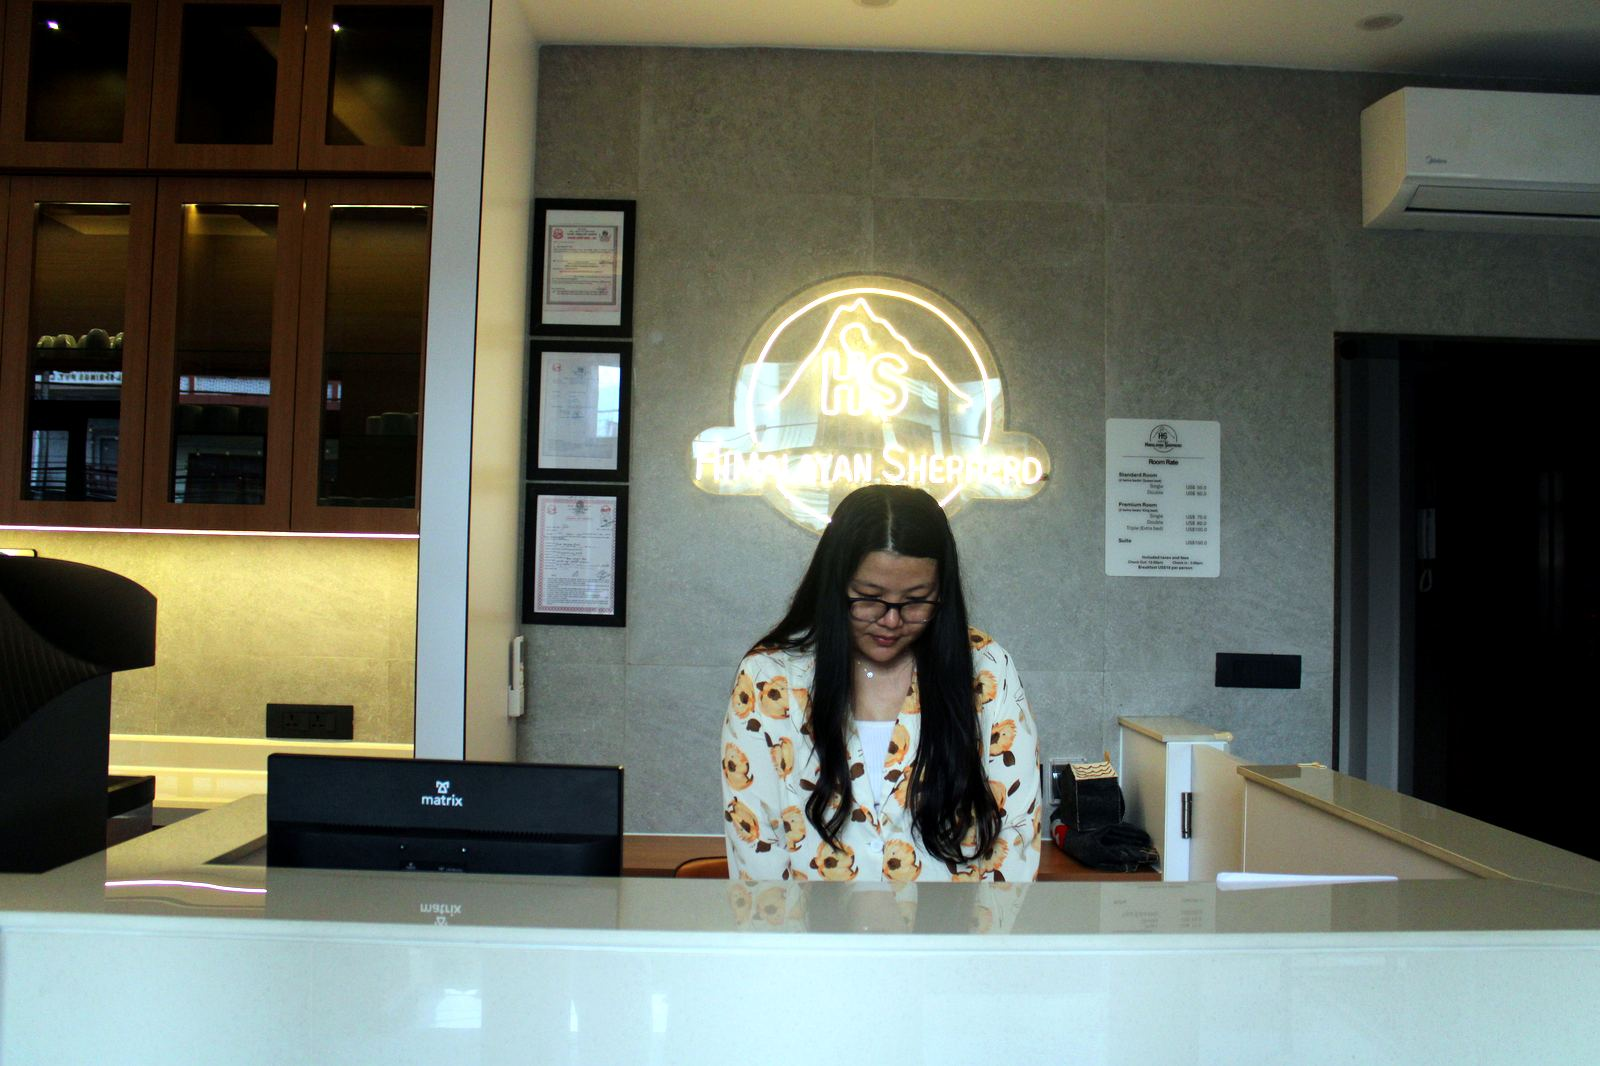
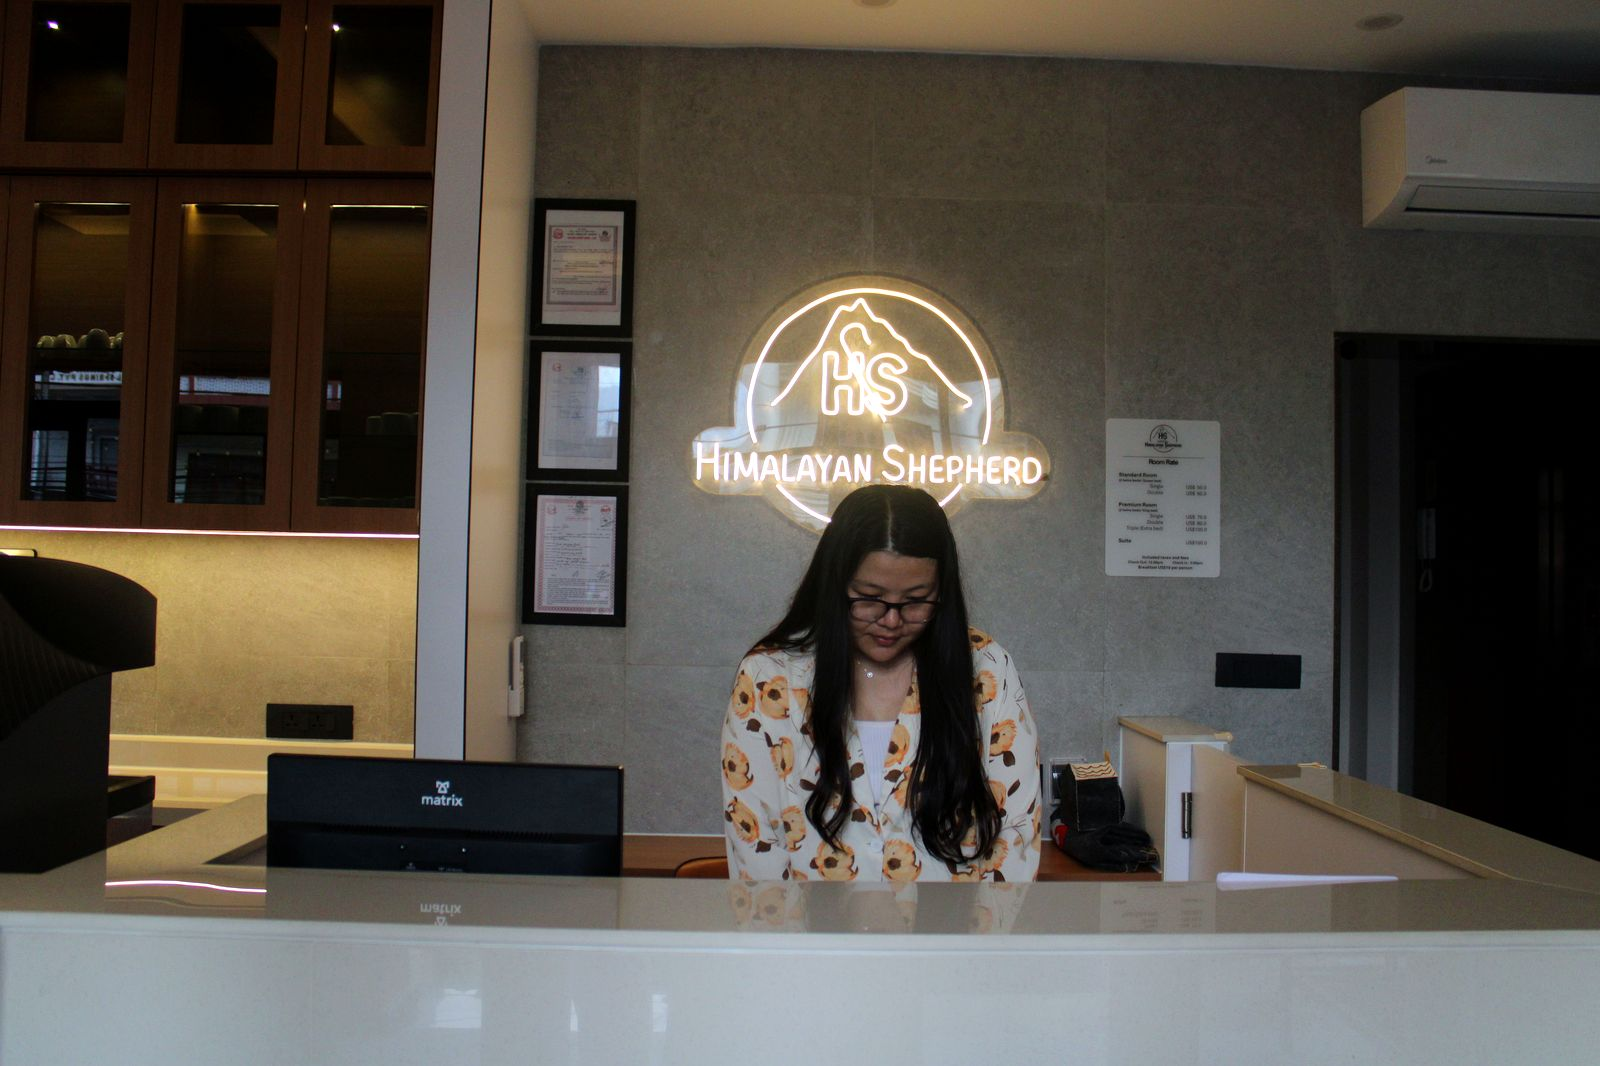
Use IMG_4254 as the About reception photo.
The cropped emblem hid the front desk. Show the full reception shot so the sign and the desk are both in frame.

diff --git a/components/About.tsx b/components/About.tsx
@@ -3,10 +3,10 @@ import { SmartImage } from "./SmartImage";
 
 const MOSAIC = [
   {
-    src: "/images/hotel/lobby_and_front_desk/himalayan-shepherd-reception-emblem.jpg",
-    alt: "Illuminated Himalayan Shepherd emblem on the reception wall",
-    className: "col-span-2 aspect-[4/3]",
-    object: "object-[center_45%]",
+    src: "/images/hotel/lobby_and_front_desk/hotel-reception-desk-with-illuminated-sign.jpg",
+    alt: "Front desk with the illuminated Himalayan Shepherd emblem",
+    className: "col-span-2 aspect-[3/2]",
+    object: "object-center",
   },
   {
     src: "/images/hotel/lounge_and_seating/cozy-armchairs-by-window-view.jpg",
